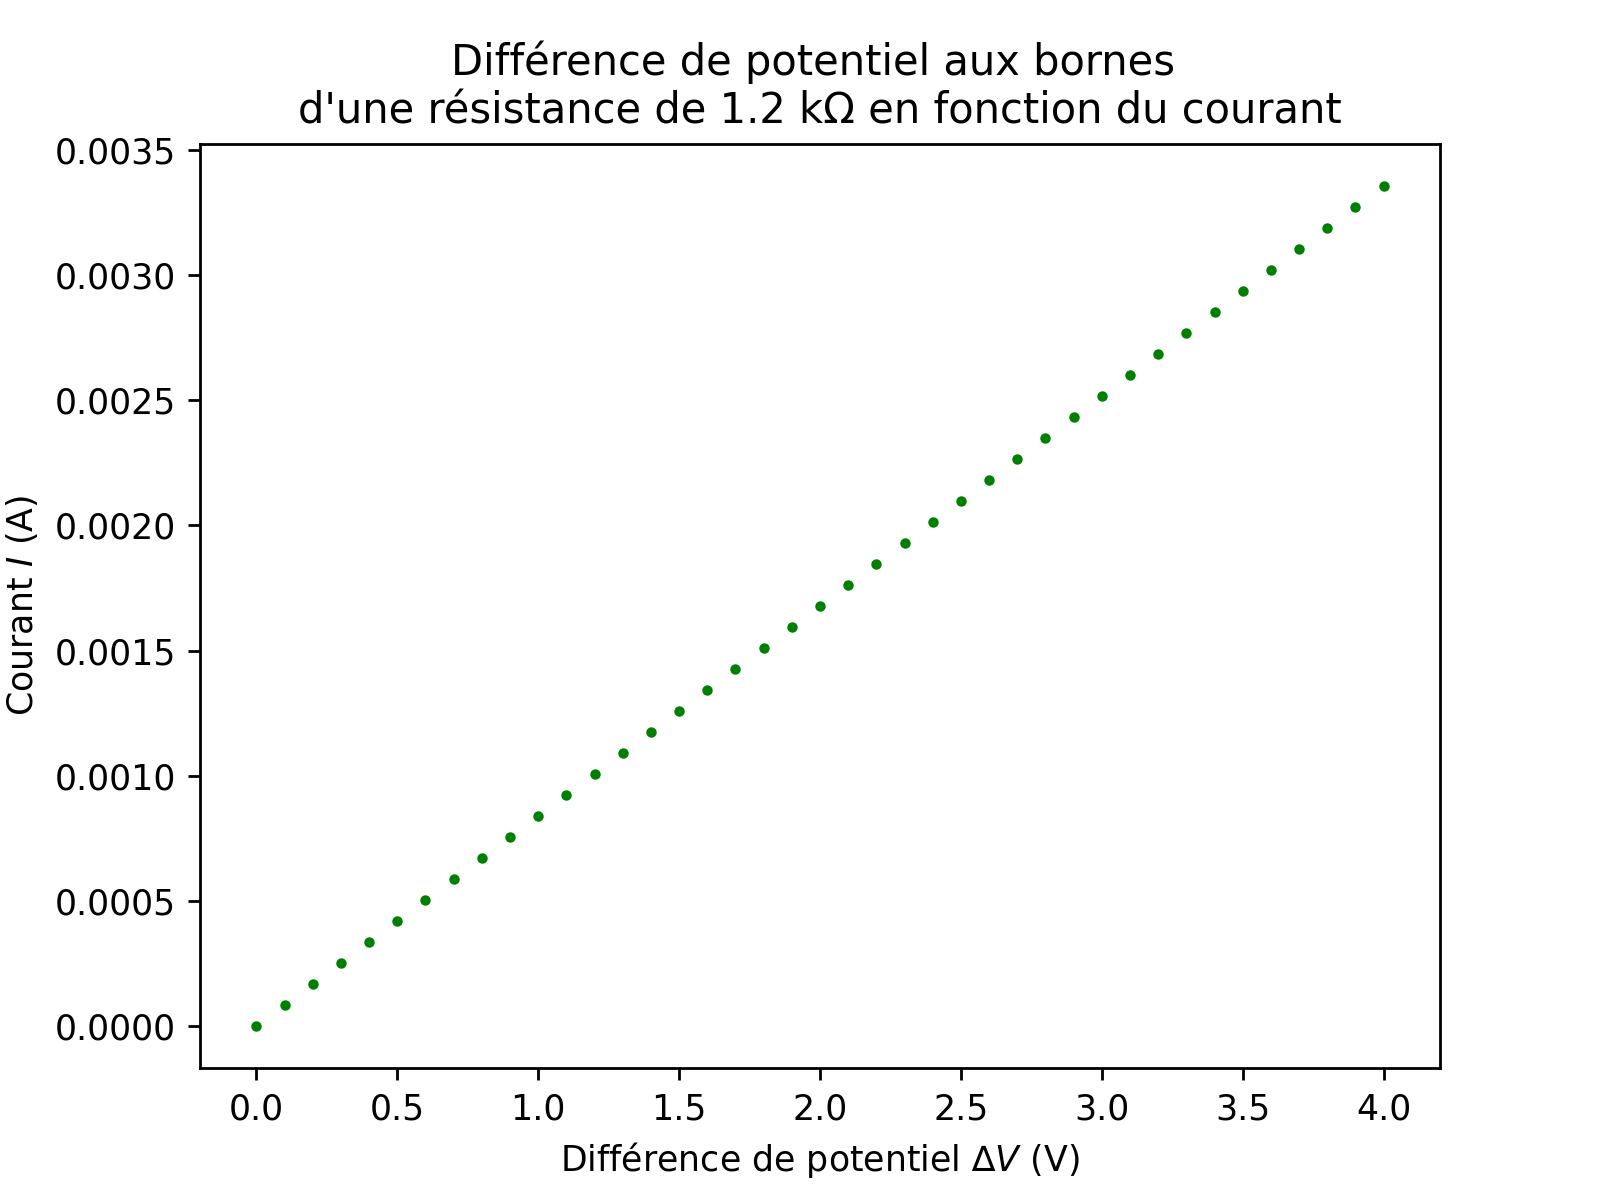
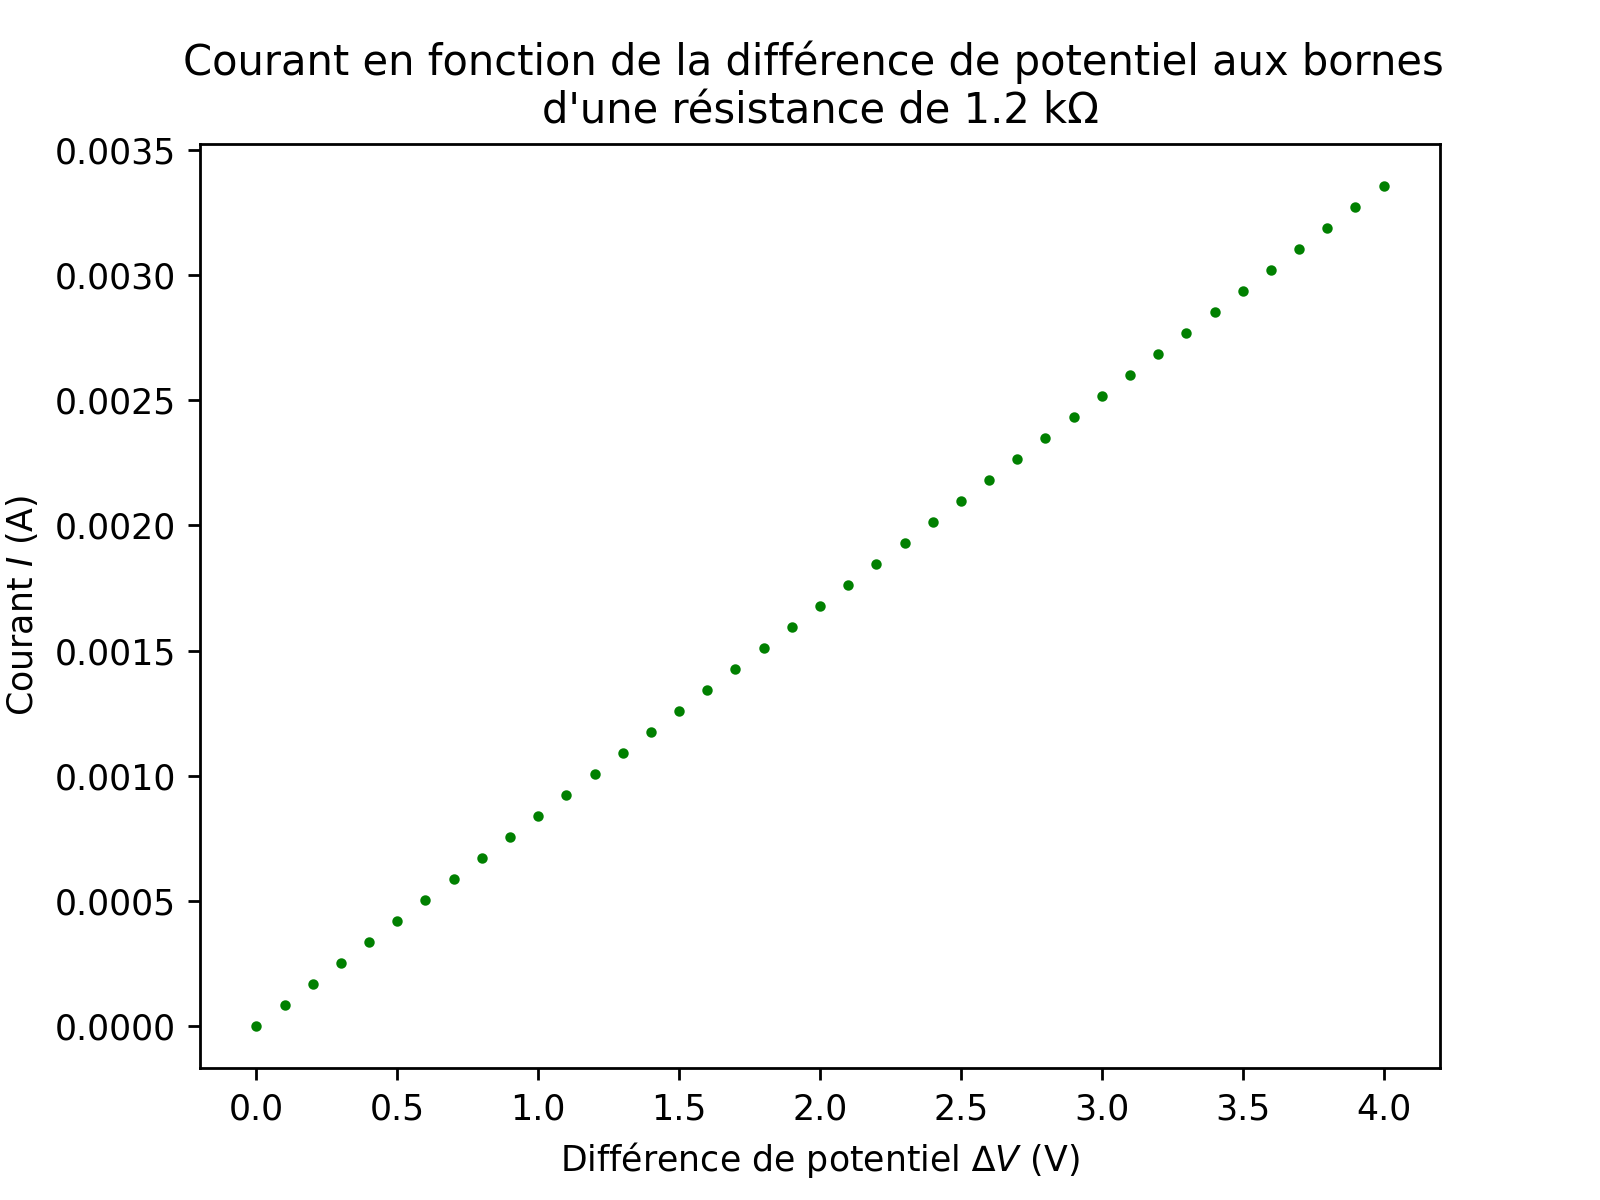
more graphs part 4

Changed region(s): [[0.0938, 0.0308, 0.9062, 0.1233]]

diff --git a/lab_3/graph_maker.py b/lab_3/graph_maker.py
@@ -13,9 +13,15 @@ def read_lvm(file_path: str) -> np.ndarray:
         os.remove(f"{file_path}.pkl")
     except:
         pass
-    print(file)
-    print(len(file))
-    return file[0]["data"]
+    number_of_data_arrays = len(file) - 11      # Get the number of arrays in the same .lvm file
+    arrays = []
+    for i in range(number_of_data_arrays):      # Iterate to group all the arrays
+        arrays.append(file[i]["data"])
+    
+    if len(arrays) == 1:                        # Crop if the list contains a single element
+        return arrays[0]
+    else:
+        return arrays
 
 def plot_graph(array: np.ndarray, params: dict=None):
     """
@@ -39,44 +45,63 @@ def save_figure(file_path: str, show: bool=False):
         plt.show(block=True)
 
 
-plot_files = [
-    ["lab_3/data/part_3_a.lvm", "lab_3/graphs/part_3_a.png", {
-        "title": "Différence de potentiel aux bornes \nd'une résistance de 1.2 kΩ en fonction du courant",
-        "xlabel": "Différence de potentiel $∆V$ (V)", "ylabel": "Courant $I$ (A)"}],
-    ["lab_3/data/part_3_b.lvm", "lab_3/graphs/part_3_b.png", {
-        "title": "Différence de potentiel aux bornes \nd'un condensateur de 1 μF en fonction du courant",
-        "xlabel": "Différence de potentiel $∆V$ (V)", "ylabel": "Courant $I$ (A)"}],
-    ["lab_3/data/part_3_c.lvm", "lab_3/graphs/part_3_c.png", {
-        "title": "Différence de potentiel aux bornes \nd'une bobine de 1 mH en fonction du courant",
-        "xlabel": "Différence de potentiel $∆V$ (V)", "ylabel": "Courant $I$ (A)"}],
-    ["lab_3/data/part_3_e.lvm", "lab_3/graphs/part_3_e.png", {
-     "title": "Différence de potentiel aux bornes \nd'une diode Zener branchée en sens inverse en fonction du courant",
-        "xlabel": "Différence de potentiel $∆V$ (V)", "ylabel": "Courant $I$ (A)"}]
-]
-
 def make_figures_for_parts_abce():
+    plot_files = [
+        ["lab_3/data/part_3_a.lvm", "lab_3/graphs/part_3_a.png", {
+            "title": "Courant en fonction de la différence de potentiel aux bornes \nd'une résistance de 1.2 kΩ",
+            "xlabel": "Différence de potentiel $∆V$ (V)",
+            "ylabel": "Courant $I$ (A)"
+        }],
+        ["lab_3/data/part_3_b.lvm", "lab_3/graphs/part_3_b.png", {
+            "title": "Courant en fonction de la différence de potentiel aux bornes \nd'un condensateur de 1 μF",
+            "xlabel": "Différence de potentiel $∆V$ (V)",
+            "ylabel": "Courant $I$ (A)"
+        }],
+        ["lab_3/data/part_3_c.lvm", "lab_3/graphs/part_3_c.png", {
+            "title": "Courant en fonction de la différence de potentiel aux bornes \nd'une bobine de 1 mH",
+            "xlabel": "Différence de potentiel $∆V$ (V)",
+            "ylabel": "Courant $I$ (A)"
+        }],
+        ["lab_3/data/part_3_e.lvm", "lab_3/graphs/part_3_e.png", {
+            "title": ("Courant en fonction de la différence de potentiel aux bornes \n" + 
+                      "d'une diode Zener branchée en sens inverse"),
+            "xlabel": "Différence de potentiel $∆V$ (V)",
+            "ylabel": "Courant $I$ (A)"
+        }]
+    ]
     for data, save_path, params in plot_files:
         plot_graph(read_lvm(data), params=params)
         save_figure(save_path, show=True)
 
-# make_figures_for_parts_abce()
+make_figures_for_parts_abce()
 
 def make_figure_for_part_d():
     zero_to_six = read_lvm("lab_3/data/part_3_d_0to6.lvm")
     zero_to_one = read_lvm("lab_3/data/part_3_d_0to1.lvm")
     global_array = np.concatenate(((zero_to_six * (-1))[::-1], zero_to_one))
     params = {
-        "title": "Différence de potentiel aux bornes \nd'une diode standard en fonction du courant",
+        "title": "Courant en fonction de la différence de potentiel aux bornes \nd'une diode standard",
         "xlabel": "Différence de potentiel $∆V$ (V)", 
         "ylabel": "Courant $I$ (A)"
     }
     plot_graph(global_array, params)
     save_figure("lab_3/graphs/part_3_d.png", show=True)
 
-# make_figure_for_part_d()
+make_figure_for_part_d()
 
-# read_lvm("lab_3/data/part_4.lvm")
+def make_figures_for_part_4():
+    voltage_be = [0.0, 0.2, 0.4, 0.6, 0.8, 1.0, 1.2]
+    arrays = read_lvm("lab_3/data/part_4.lvm")
+    params = {
+        "xlabel": "Différence de potentiel $∆V$ (V)", 
+        "ylabel": "Courant $I$ (A)"
+    }
+    for voltage, array in zip(voltage_be, arrays):
+        params["title"] = (r"Courant $i_{ce}$ en fonction de la tension $v_{ce}$ pour une tension $v_{be}$ de " + 
+                           f"{voltage}V")
+        plot_graph(array, params=params)
+        save_figure(f"lab_3/graphs/part_4_{voltage}V.png", show=True)
 
-
+# make_figures_for_part_4()
 
 
